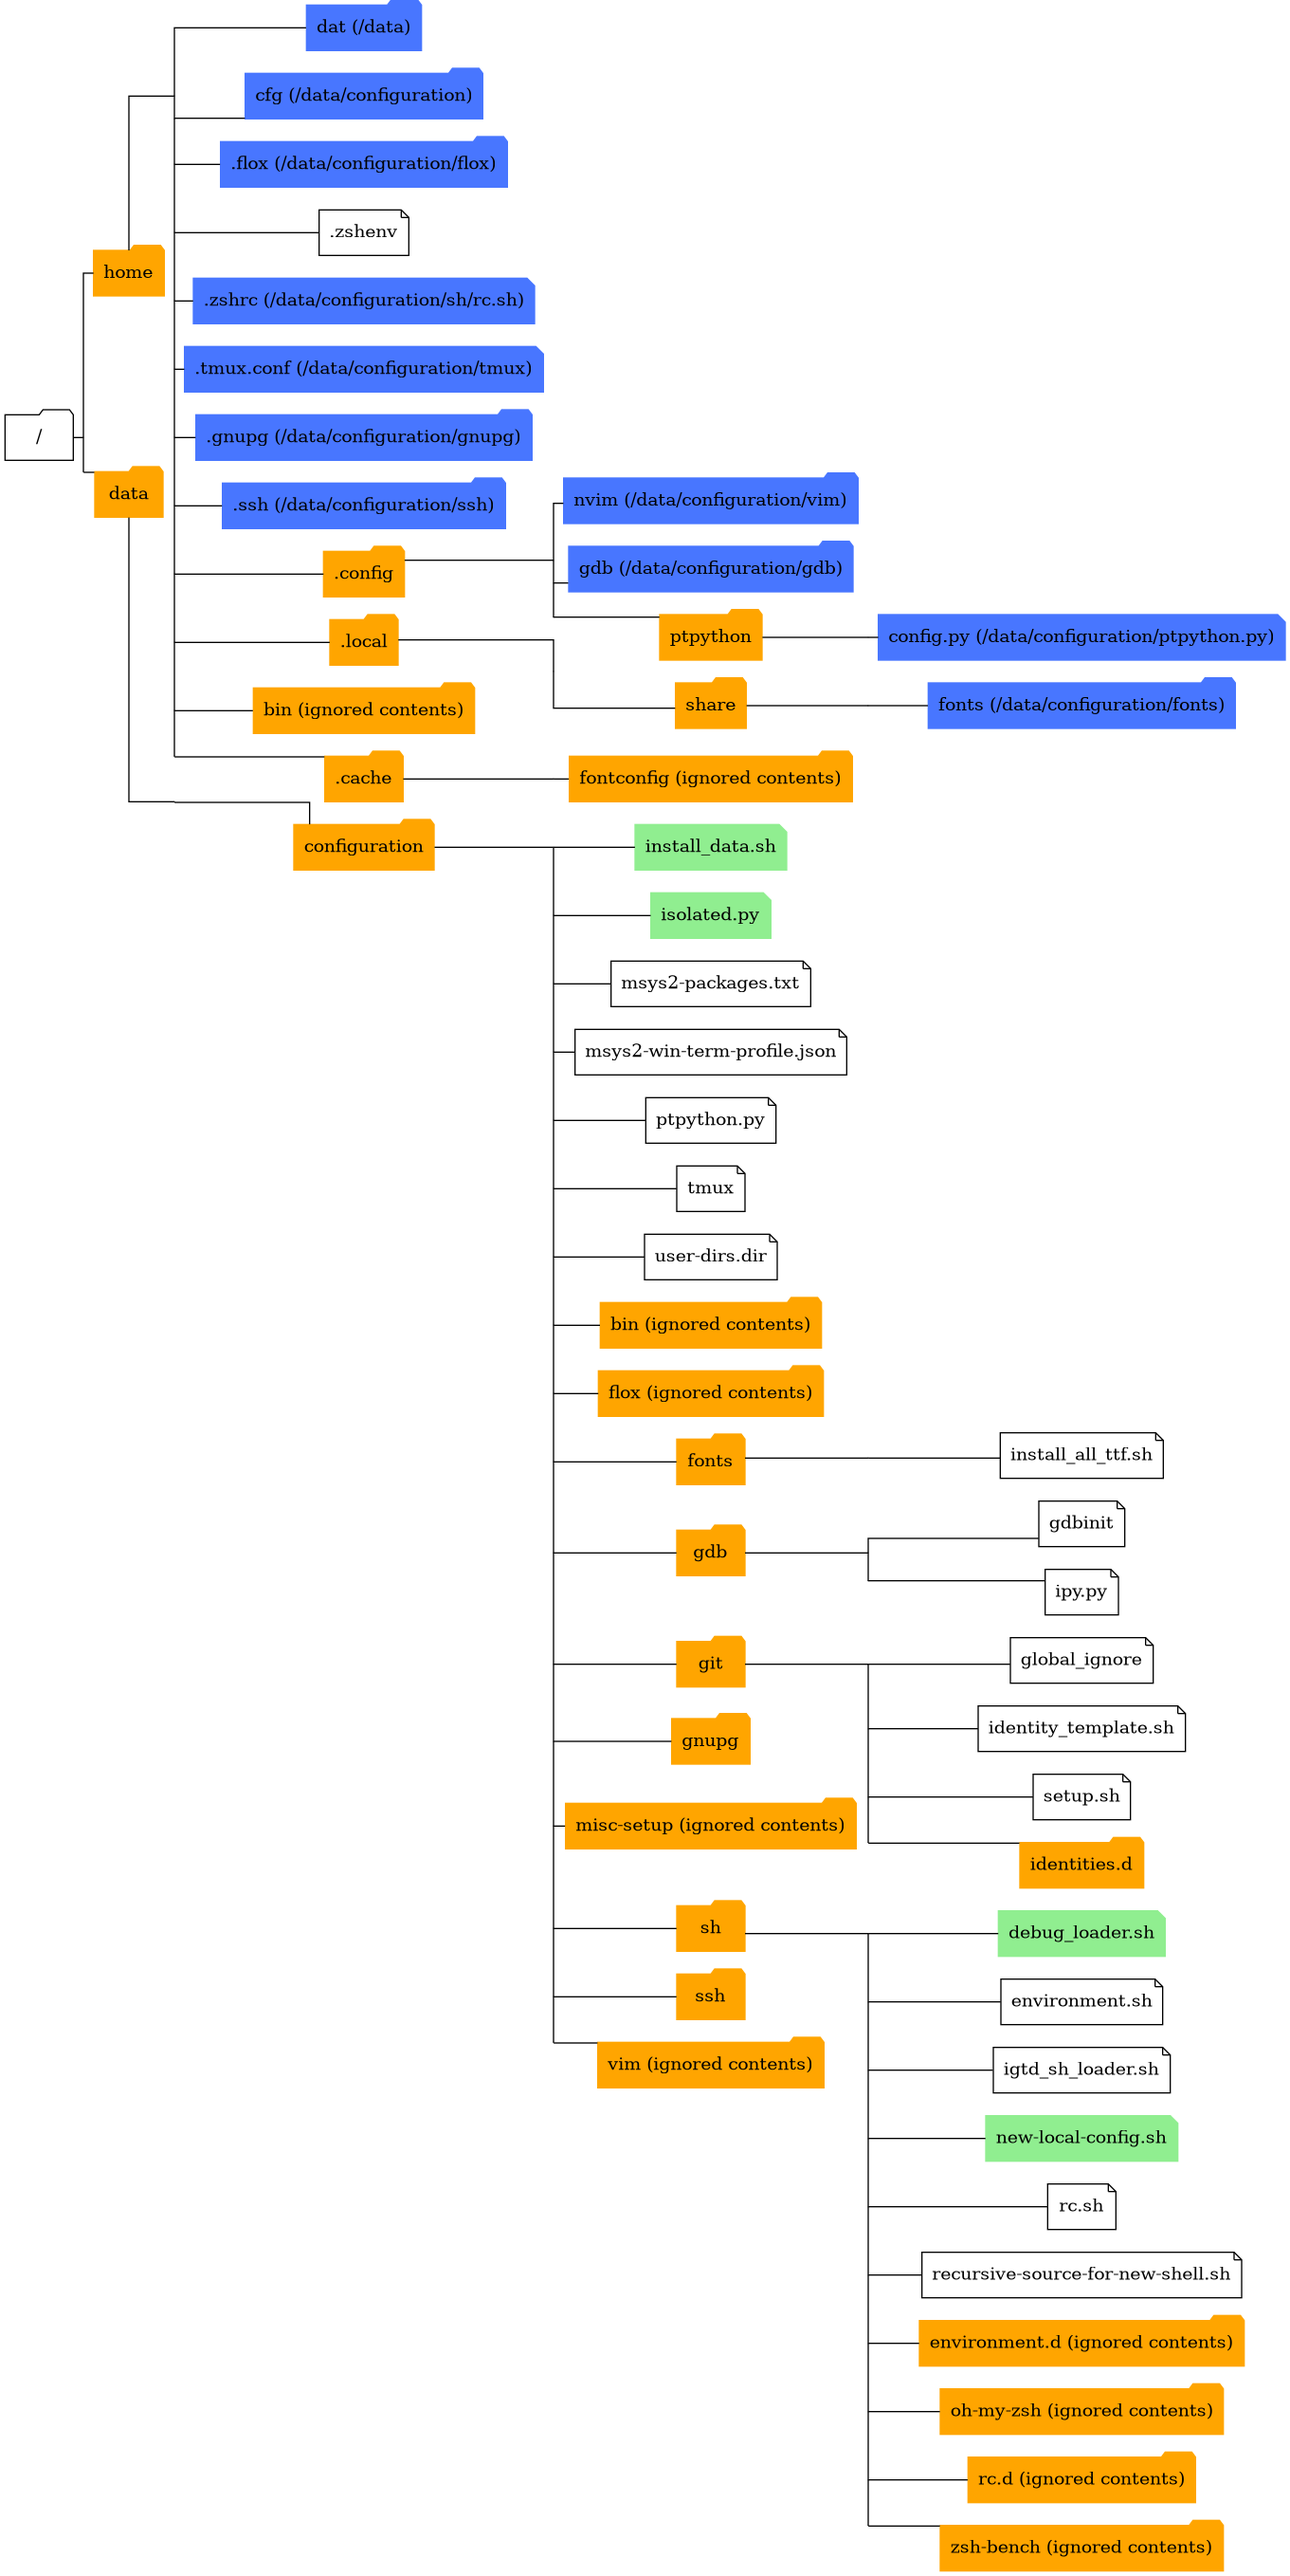
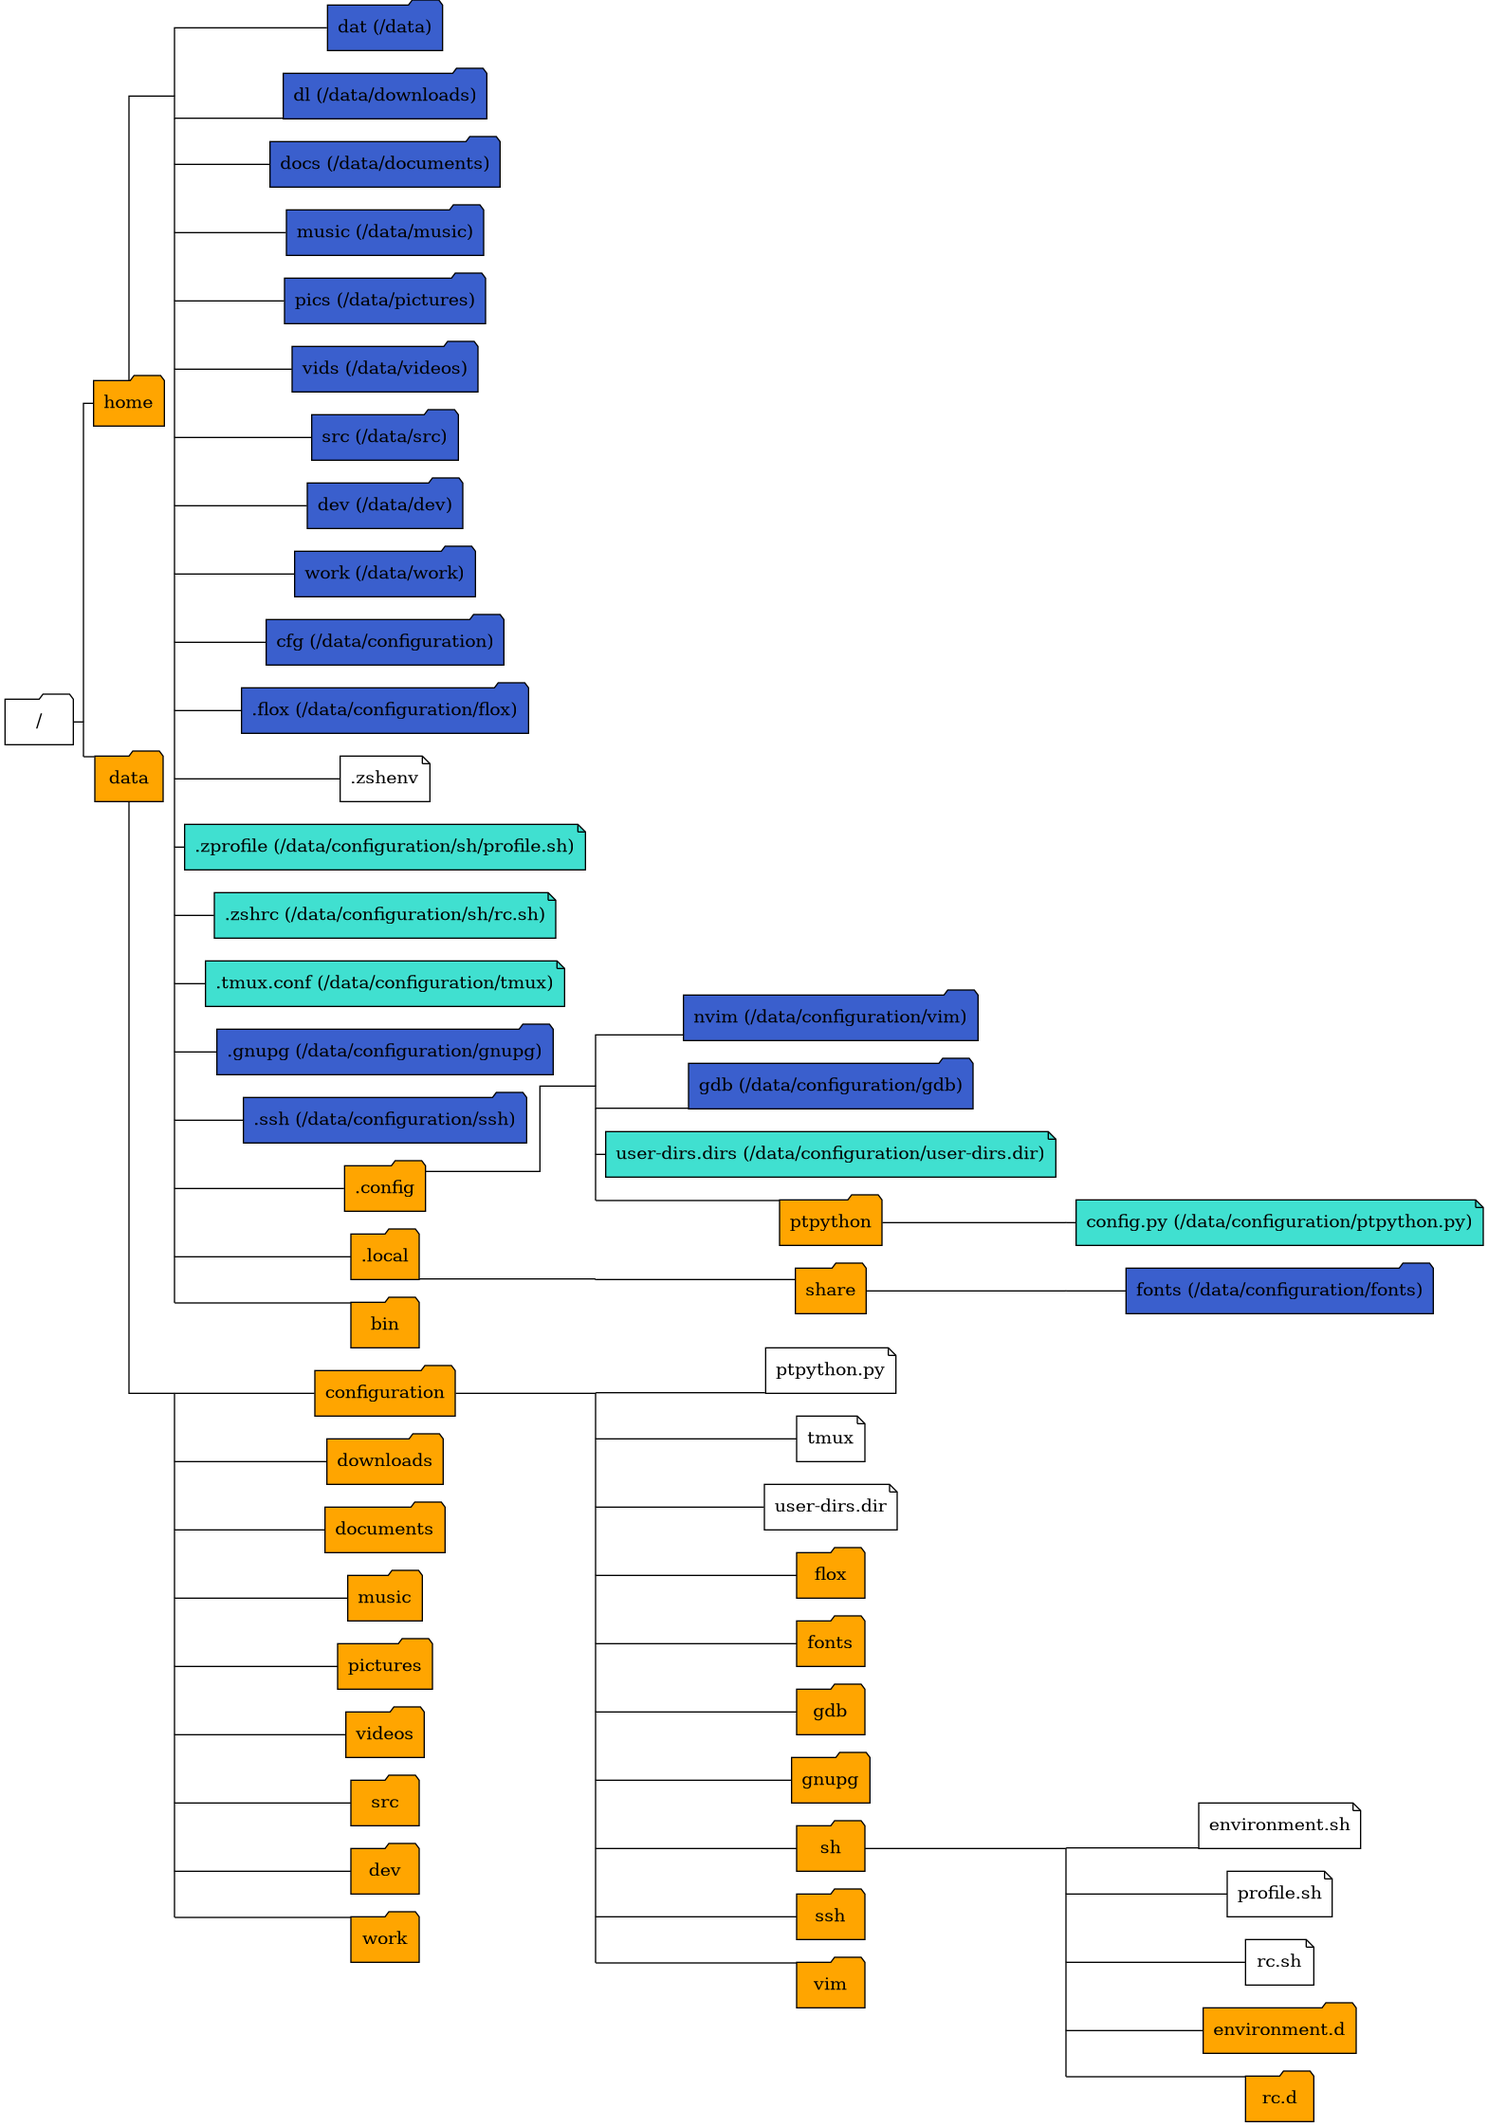
Improve Tree Sturcture Graph

diff --git a/bin/isolated.py b/bin/isolated.py
@@ -56,7 +56,7 @@ def isolated_env(args, root):
             cwd=install_config,
             install_data=str(install_data),
             set_ssh_origin='false',
-            install_user_dirs='false',
+            install_user_dirs='true',
         )
 
     elif not root.exists():
@@ -100,12 +100,80 @@ def graph_node(file, p, ref, is_dir, is_link, is_exec, name, points, extra_label
     points[depth] = (p, count)
     extra = ''
     if is_link:
-        extra = 'style=filled, color=royalblue1'
+        if is_dir:
+            extra = 'color=black, style=filled, fillcolor=royalblue3'
+        else:
+            extra = 'color=black, style=filled, fillcolor=turquoise'
     elif is_dir:
-        extra = 'style=filled, color=orange1'
+        extra = 'color=black, style=filled, fillcolor=orange1'
     elif is_exec:
-        extra = 'style=filled, color=lightgreen'
+        extra = 'color=black, style=filled, fillcolor=lightgreen'
     graph_node_i(file, this_ref, is_dir, name + extra_label, extra)
+
+
+def read_graph_file(dir_path, ignore, always_graph):
+    graph_path = dir_path / '.graph'
+    if graph_path.exists():
+        with graph_path.open() as f:
+            for line in f:
+                line = line.strip()
+                if len(line) > 2:
+                    what = None
+                    values = line.split(':', 1)
+                    if len(values) > 1:
+                        what = values[0]
+                        path = (dir_path / values[1]).absolute()
+                    if what == 'ignore':
+                        ignore.add(path)
+                    elif what == 'graph':
+                        always_graph.add(path.resolve())
+                    else:
+                        print(f'Invalid .graph line in {graph_path}:', line)
+
+
+def all_ancestors(root, paths, all_paths):
+    for path in paths:
+        for ancestor in path.parents:
+            if ancestor == root.parent:
+                break
+            all_paths.add(ancestor)
+        all_paths.add(path)
+
+
+def interested_walk(root):
+    links = {}
+    ignore = set()
+    always_graph = set()
+
+    for current_dir, dirs, files in root.walk():
+        read_graph_file(current_dir, ignore, always_graph)
+        for name in dirs + files:
+            child = current_dir / name
+            if child in ignore or (child / '.git').is_file() or name == '.git':
+                if child.is_dir():
+                    dirs.remove(name)
+                continue
+            if child.is_symlink():
+                try:
+                    links[child.absolute()] = child.resolve(strict=True)
+                except FileNotFoundError:
+                    print(f'{child} is broken!')
+
+    all_paths = set()
+    all_ancestors(root, links.keys(), all_paths)
+    all_ancestors(root, links.values(), all_paths)
+    all_ancestors(root, always_graph, all_paths)
+
+    result = []
+    for current, dirs, files in root.walk():
+        if current not in all_paths:
+            continue
+        kept_dirs = [d for d in dirs if (current / d) in all_paths]
+        kept_files = [f for f in files if (current / f) in all_paths]
+        if kept_dirs or kept_files or current in all_paths:
+            result.append((current, kept_dirs, kept_files))
+
+    return result
 
 
 def resolve(root, p):
@@ -113,44 +181,6 @@ def resolve(root, p):
     if rel.parts and rel.parts[0] == '..':
         return None
     return Path('/') / rel
-
-
-dirnames_ignore_contents = [
-    'fontconfig',
-    'flox',
-    'bin',
-    'misc-setup',
-    'vim',
-    'environment.d',
-    'rc.d',
-    'oh-my-zsh',
-]
-
-
-def ignore_dir_contents(path):
-    return (path / '.git').is_file() or path.name in dirnames_ignore_contents
-
-
-def graph_filter(dirpath, dirnames, filenames):
-    if ignore_dir_contents(dirpath):
-        # Submodule or something else we shouldn't show contents at all
-        dirnames.clear()
-        filenames.clear()
-    else:
-        # Ignore these names in directories
-        ignore_names = [
-            '.git',
-            '.github',
-            '.install_this.sh',
-            '.gitignore',
-            '.gitmodules',
-            'README.md',
-        ]
-        for name in ignore_names:
-            if name in dirnames:
-                dirnames.remove(name)
-            if name in filenames:
-                filenames.remove(name)
 
 
 def graph(root, file):
@@ -165,9 +195,7 @@ def graph(root, file):
     p = Path("/")
     ref = f'"{p}"'
     graph_node_i(file, ref, True, str(p))
-    for dirpath, dirnames, filenames in root.walk():
-        graph_filter(dirpath, dirnames, filenames)
-
+    for dirpath, dirnames, filenames in interested_walk(root):
         p = resolve(root, dirpath)
         ref = f'"{p}"'
 
@@ -188,8 +216,6 @@ def graph(root, file):
 
         for name in dirnames:
             extra_label = ''
-            if ignore_dir_contents(dirpath / name):
-                extra_label = ' (ignored contents)'
             graph_node(file, p, ref, True, False, False, name, points, extra_label)
 
     for depth, (_, count) in points.items():

diff --git a/README.md b/README.md
@@ -138,7 +138,7 @@ Run scripts in `misc-setup` as needed.
   - WezTerm:
     - TODO: Setup
 
-## Directory Structure
+## Example Directory Structure After Install
 
 Run `isolated.py --create --clone isoenv true` and
 `isolated.py isoenv --graph` to regenerate from committed. Requires Graphviz.
